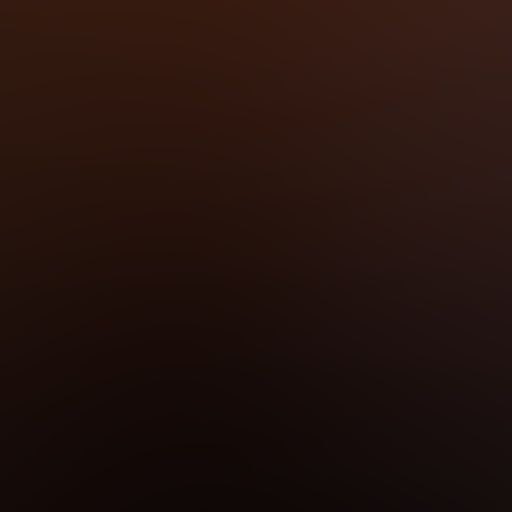
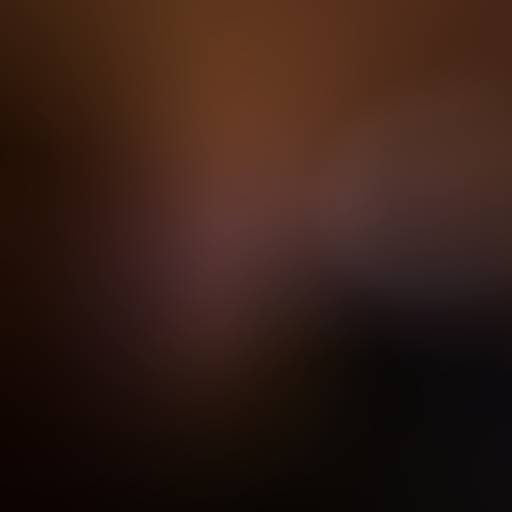
A bunch of fixes

diff --git a/scripts/game/connect4.js b/scripts/game/connect4.js
@@ -61,14 +61,14 @@ Connect4Manager.prototype.reloadScene = function()
     this.gameBoard.clickable = true;
     this.gameBoard.move(0, -2, 0);
 
-    let skyBox = new Skybox("Skybox", Cubemap.getOrCreate("room"), Cubemap.getOrCreate("room_reflection"), 1, {
+    let skyBox = new Skybox("Skybox", Cubemap.getOrCreate("room"), Cubemap.getOrCreate("room_irradiance"), 0.35, {
         blurFactor: 2
     }, Shader.getShader("skybox"));
+    this.gameScene.addEntity(skyBox);
 
     this.gameScene.addEntity(cameraPivot);
     this.gameScene.addEntity(mainCamera);
     this.gameScene.addEntity(this.gameBoard);
-    this.gameScene.addEntity(skyBox);
 
     //Lights
     let directionalLight = new DirectionalLight("DirectionalLight", [ 0.5, 0.5, 0.5 ]);
@@ -76,8 +76,8 @@ Connect4Manager.prototype.reloadScene = function()
     directionalLight.setDirectionTo(this.gameBoard);
     this.gameScene.addEntity(directionalLight);
 
-    let pointLight = new PointLight("PointLight", [ 0, 0, 1 ], 20);
-    pointLight.setLocalPosition(10, 10, 0);
+    let pointLight = new PointLight("PointLight", [ 0, 0, 1 ], 1, 1);
+    pointLight.setLocalPosition(0, 50, 0);
     this.gameScene.addEntity(pointLight);
 
     //Pawn Drop Selectors

diff --git a/scripts/texture2d.js b/scripts/texture2d.js
@@ -1,6 +1,7 @@
 var Texture = function(name)
 {
     this.handle = gl.createTexture();
+    gl.activeTexture(gl.TEXTURE0);
     gl.bindTexture(gl.TEXTURE_2D, this.handle);
 
     this.image = new Image();
@@ -8,8 +9,8 @@ var Texture = function(name)
 
     var that = this;
     this.image.onload = function() {
+        gl.activeTexture(gl.TEXTURE0);
         gl.bindTexture(gl.TEXTURE_2D, that.handle);
-              
         gl.pixelStorei(gl.UNPACK_FLIP_Y_WEBGL, true);
         gl.texParameteri(gl.TEXTURE_2D, gl.TEXTURE_MAG_FILTER, gl.LINEAR);
         gl.texParameteri(gl.TEXTURE_2D, gl.TEXTURE_MIN_FILTER, gl.LINEAR);

diff --git a/scripts/cubemap.js b/scripts/cubemap.js
@@ -49,6 +49,7 @@ var Cubemap = function(name)
 
     
     gl.texParameteri(gl.TEXTURE_CUBE_MAP, gl.TEXTURE_MAG_FILTER, gl.LINEAR);
+    gl.texParameteri(gl.TEXTURE_CUBE_MAP, gl.TEXTURE_MIN_FILTER,  gl.LINEAR);
     gl.texParameteri(gl.TEXTURE_CUBE_MAP, gl.TEXTURE_WRAP_S, gl.CLAMP_TO_EDGE);
     gl.texParameteri(gl.TEXTURE_CUBE_MAP, gl.TEXTURE_WRAP_T, gl.CLAMP_TO_EDGE);
 

diff --git a/scripts/point_light.js b/scripts/point_light.js
@@ -1,8 +1,8 @@
-var PointLight = function(name, lightColor, reductionDistance)
+var PointLight = function(name, lightColor, reductionDistance, decay)
 {
     Entity.call(this, name);
     this.lightColor = lightColor;
-    this.decay = 0;
+    this.decay = decay;
     this.reductionDistance = reductionDistance;
 }
 
